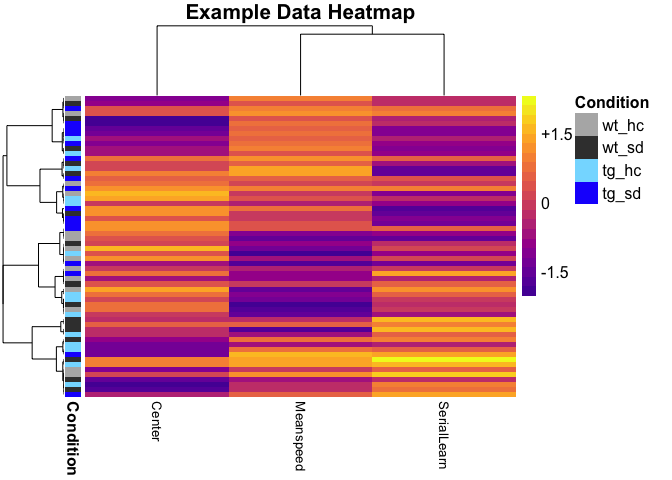
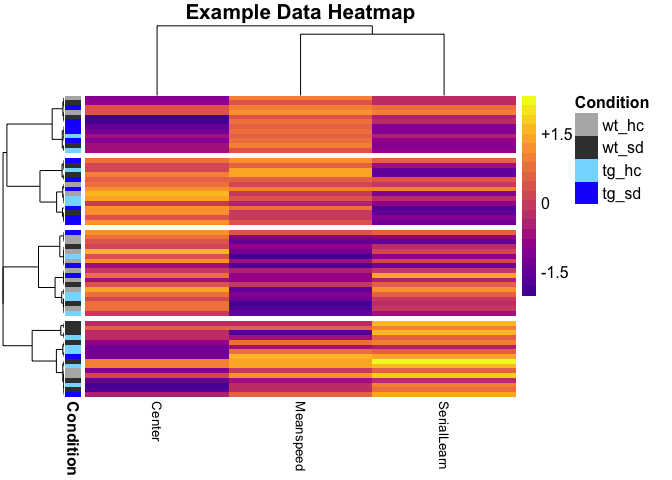
update README due to update heatmapexp

diff --git a/README.md b/README.md
@@ -180,8 +180,9 @@ data.animal.matrix <- heatmapexp(directory = paste0(system.file("extdata", packa
                                  return.matrix.mean = FALSE,
                                  directional = TRUE,
                                  absoluteval = FALSE,
-                                 clustercols = FALSE,
-                                 clusterrows = TRUE,
+                                 clustercols = TRUE,
+                                 clusterrows = FALSE,
+                                 cutree_cols = 2,
                                  palette = "viridis",
                                 #colorbrewname = "Greys",
                                  viridisname = viridis,
